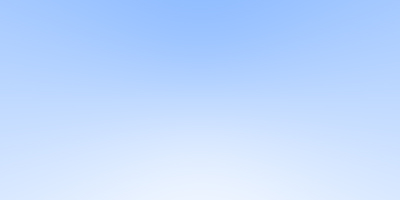
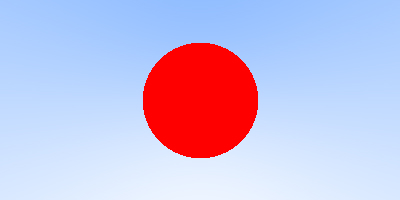
Added a basic sphere

Changed region(s): [[0.36, 0.21, 0.66, 0.81]]

diff --git a/main.cpp b/main.cpp
@@ -9,12 +9,24 @@
 
 using namespace std;
 
+bool hit_sphere(const vec3& center, float radius, const ray& r) {
+    vec3 oc = r.origin() - center;
+    float a = dot(r.direction(), r.direction());
+    float b = 2 * dot(oc, r.direction());
+    float c = dot(oc, oc) - radius*radius;
+    float determinant = b*b - 4*a*c;
+    return determinant > 0;
+}
+
 vec3 color(const ray& r) {
+    vec3 sphere_center(0.0, 0.0, -1.0);
+    if (hit_sphere(sphere_center, 0.5, r)) {
+        return vec3(1.0, 0.0, 0.0);
+    }
     vec3 unit_direction = unit_vector(r.direction());
     float t = 0.5*(unit_direction.y() + 1.0);
     return (1.0-t)*vec3(1.0, 1.0, 1.0) + t*vec3(0.5, 0.7, 1.0);
 }
-
 
 void draw_ppm(int nx, int ny) {
     ofstream myfile;

diff --git a/vec3.h b/vec3.h
@@ -130,6 +130,10 @@ inline vec3& vec3::operator/=(const float t) {
     return *this;
 }
 
+inline float dot(const vec3 &v1, const vec3 &v2) {
+    return v1.e[0]*v2.e[0] + v1.e[1]*v2.e[1] + v1.e[2]*v2.e[2];
+}
+
 inline vec3 unit_vector(vec3 v) {
     return v / v.length();
 }
